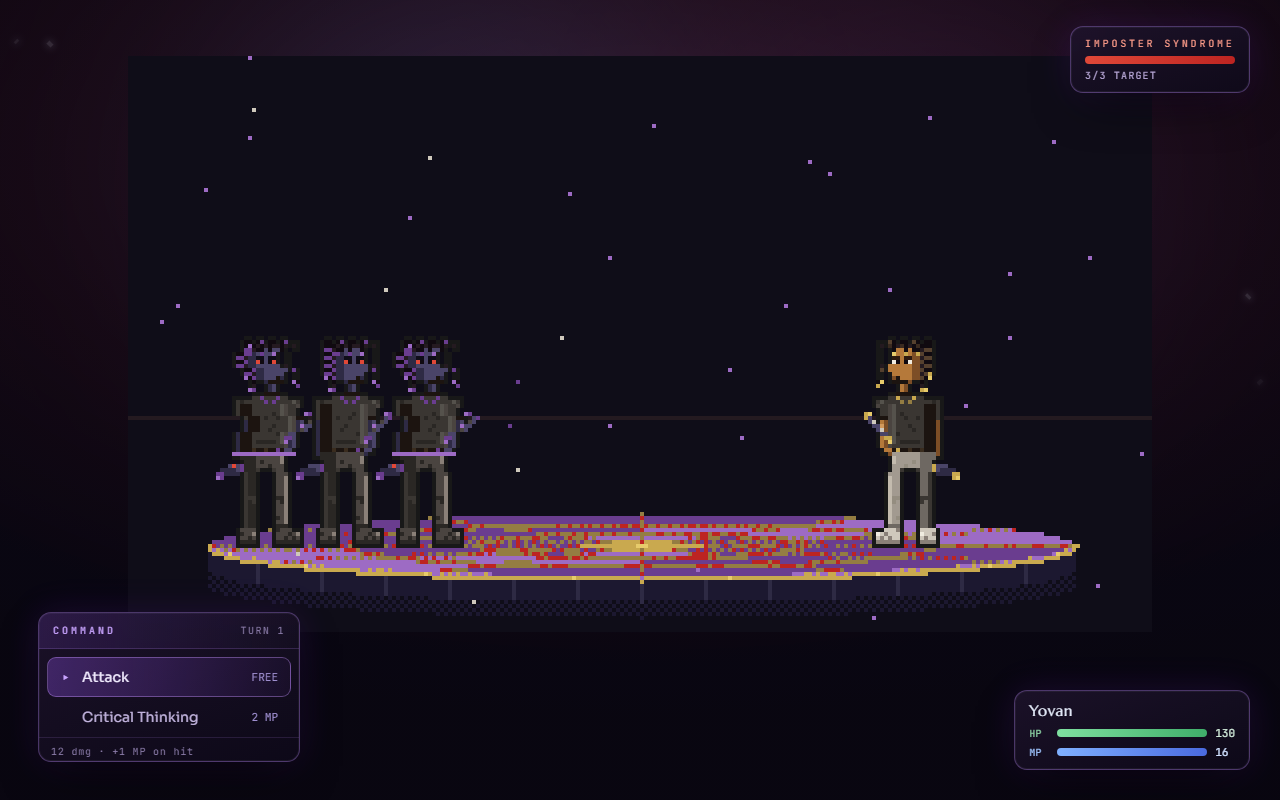
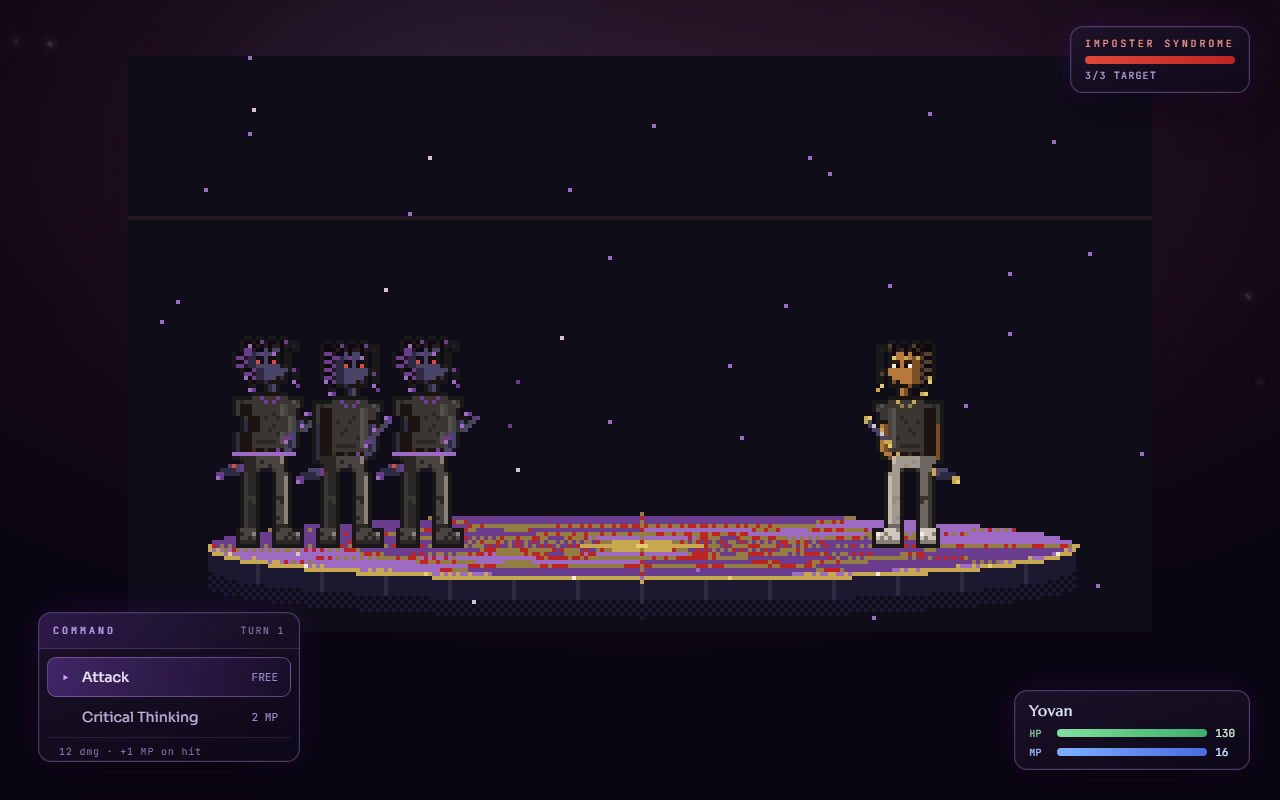
fix(battle): B5 follow-up, restore footer-hint alignment after the flex split
Coordinator review of B5/B6 (953a0c7) caught a real defect in the flex
restructure: hoisting the footer desc hint out of the old `padding:
"8px"` wrapper (to pin it as its own flex child, per the B4 ruling)
dropped the 8px of inherited left/right inset that wrapper used to give
it. Ability rows still sit inside that 8px wrapper and carry their own
`padding: "10px 12px"`, so their label text starts 20px from the
panel's left edge; the footer hint, now a direct child of the panel
with only its own `padding: "7px 12px 3px"`, started 12px in instead -
8px left of the row labels it describes, with its borderTop spanning
the panel's full 262px instead of the pre-fix 246px inset.

Fix: `marginLeft: 8, marginRight: 8` added to that footer div,
padding left untouched. Restores text at 8+12=20px (matching the row
labels) and a border inset 8px each side (246px), which is what margin
reproduces and padding-only would not - the border is drawn at the
margin box's edge either way, so only shrinking the box via margin (not
widening internal padding) gets the border geometry back to
byte-faithful pre-fix appearance. Did not move the footer back inside
the scroll container - that would defeat the pinning this milestone
exists to add.

This is a visual change to already-committed evidence, so the B6 rig
was re-run (`npm run measure:layout -- after`) to regenerate
docs/battle-prototypes/m7-clip/after/*.png. Confirmed rather than
[…]

diff --git a/src/battle/BattleScene.tsx b/src/battle/BattleScene.tsx
@@ -991,6 +991,8 @@ export default function BattleScene(props: Props) {
                 letterSpacing: ".08em",
                 borderTop: "1px solid rgba(190,140,255,.14)",
                 marginTop: 4,
+                marginLeft: 8,
+                marginRight: 8,
                 flex: "0 0 auto",
               }}
             >
